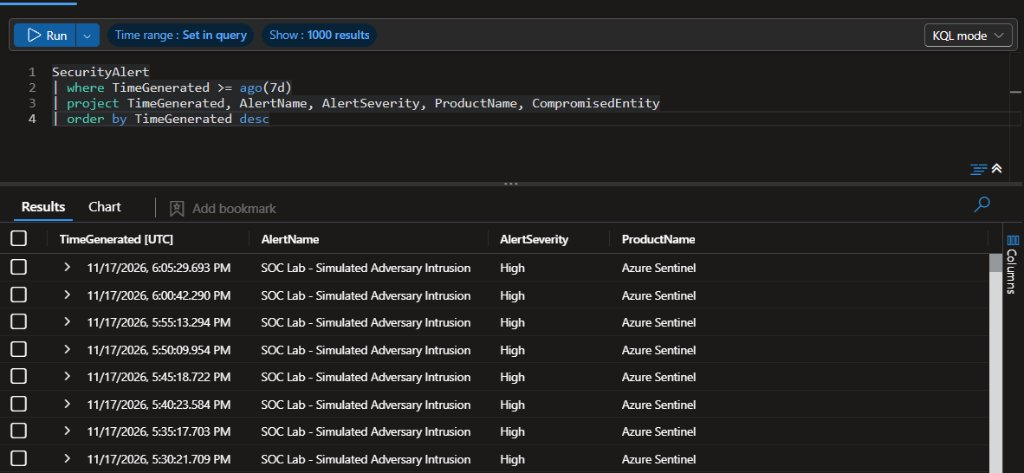
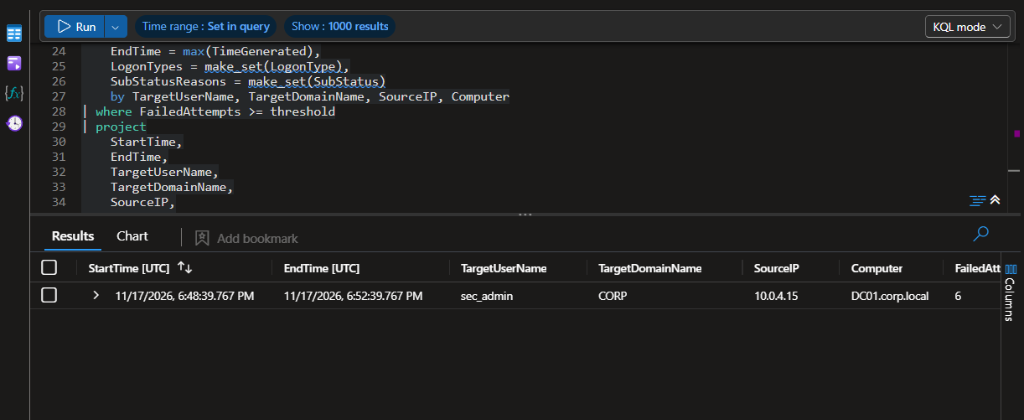
docs: replace KQL query screenshot with windows_bruteforce_4625 unit-test execution

diff --git a/README.md b/README.md
@@ -113,8 +113,9 @@ README.md             # Project documentation and evidence portfolio
 | Incident triage & closure | :white_check_mark: Completed | [View](docs/screenshots/07-incident-triage-details.png) |
 | Query results validated | :white_check_mark: Completed | [View](docs/screenshots/06-kql-query-results.png) |
 
-### KQL Query Execution & Telemetry Results in Log Analytics
+### KQL Detection Rule Execution & Unit Test (`windows_bruteforce_4625.yaml`)
 ![KQL Query Results](docs/screenshots/06-kql-query-results.png)
+*Log Analytics execution of the `windows_bruteforce_4625.yaml` rule against a `datatable` unit-test payload: verifies dual-stack `::ffff:` IPv4 stripping (`10.0.4.15`), exclusion of service logons (`LogonType == 5`) and machine accounts (`WS01$`), and threshold aggregation (`FailedAttempts = 6`).*
 
 ### Microsoft Sentinel Live Incident Queue
 ![Sample Incident](docs/screenshots/03-incident.png)
